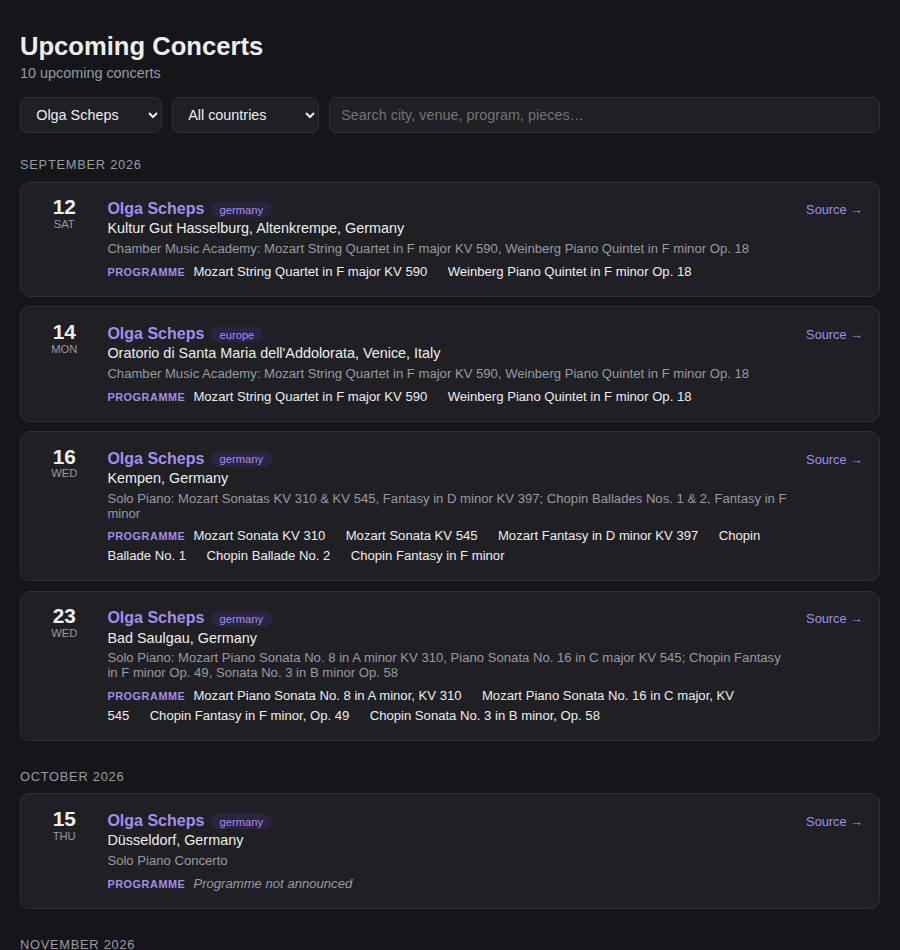
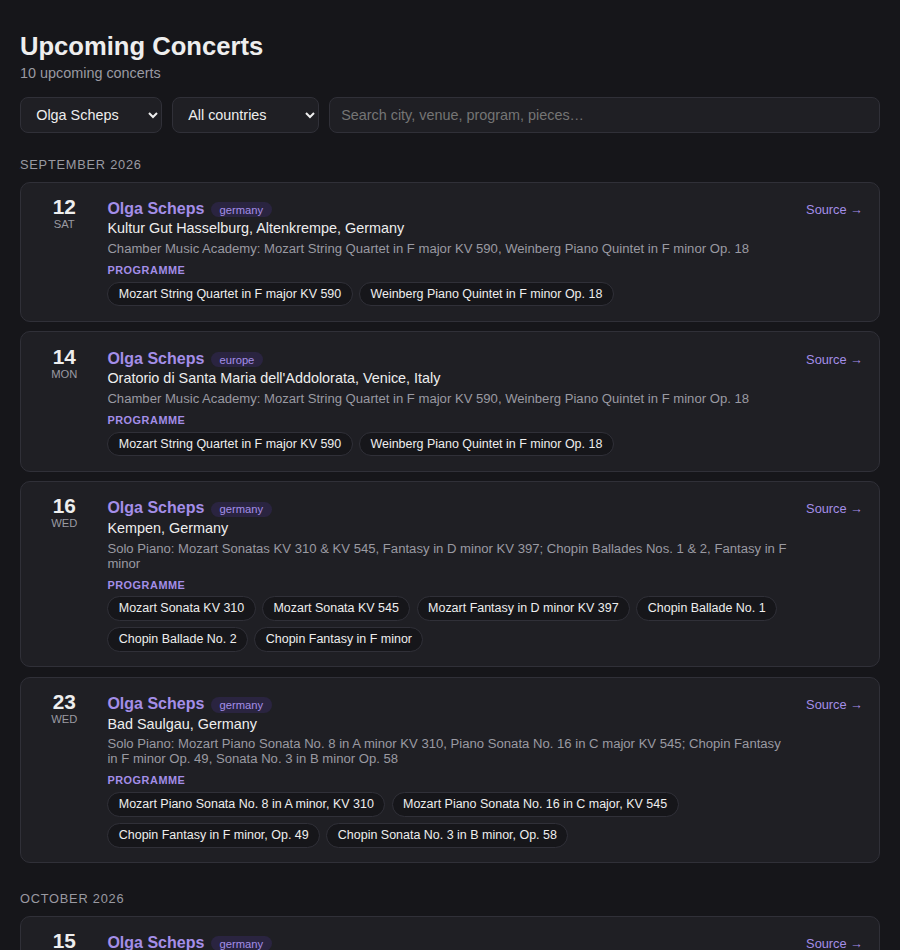
Render pieces as pill chips instead of a dot-separated line
Fixes readability for programmes with several works (e.g. Kempen's six):
a dot-separated run-on line got hard to parse at a glance, especially
mid-sentence between two long titles. Pill chips give each work its own
visual boundary and wrap naturally instead of running the line width out.

Also refreshes the PR reference snapshots under docs/screenshots/ to match.

diff --git a/index.html b/index.html
@@ -125,24 +125,34 @@
     margin-top: .3rem;
   }
   .card .repertoire {
-    font-size: .82rem;
-    margin-top: .35rem;
-    line-height: 1.5;
+    margin-top: .5rem;
   }
   .card .repertoire-label {
+    display: block;
     font-size: .68rem;
     font-weight: 600;
     text-transform: uppercase;
     letter-spacing: .05em;
     color: var(--accent);
-    margin-right: .5rem;
+    margin-bottom: .35rem;
   }
-  .card .repertoire .piece:not(:last-child)::after {
-    content: "·";
-    color: var(--border);
-    margin: 0 .5rem;
+  .card .repertoire-list {
+    display: flex;
+    flex-wrap: wrap;
+    gap: .4rem;
+  }
+  .card .piece {
+    font-size: .78rem;
+    line-height: 1.3;
+    padding: .2rem .65rem;
+    border-radius: 999px;
+    background: var(--bg);
+    border: 1px solid var(--border);
+    color: var(--text);
   }
   .card .repertoire.note .repertoire-text {
+    display: block;
+    font-size: .82rem;
     color: var(--muted);
     font-style: italic;
   }
@@ -274,14 +284,14 @@ function render() {
 // `pieces` is an array of work titles when the repertoire is known, or a
 // descriptive string ("Programme not announced") when the source doesn't list
 // it. Both get the same "Programme" label so it's always clear what this line
-// represents; the two shapes are then styled differently — a row of confirmed
-// works reads as fact, a note reads (italic, muted) as an absence of one.
+// represents; the two shapes are then styled differently — confirmed works
+// read as a row of pill chips, a note reads (italic, muted) as prose.
 function piecesHTML(pieces) {
   if (Array.isArray(pieces)) {
     const items = pieces.filter(p => typeof p === "string" && p.trim());
     if (items.length === 0) return "";
-    const list = items.map(p => `<span class="piece">${escapeHTML(p)}</span>`).join("");
-    return `<div class="repertoire"><span class="repertoire-label">Programme</span>${list}</div>`;
+    const chips = items.map(p => `<span class="piece">${escapeHTML(p)}</span>`).join("");
+    return `<div class="repertoire"><span class="repertoire-label">Programme</span><div class="repertoire-list">${chips}</div></div>`;
   }
   if (typeof pieces === "string" && pieces.trim()) {
     return `<div class="repertoire note"><span class="repertoire-label">Programme</span><span class="repertoire-text">${escapeHTML(pieces)}</span></div>`;
